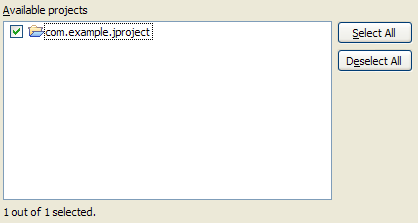
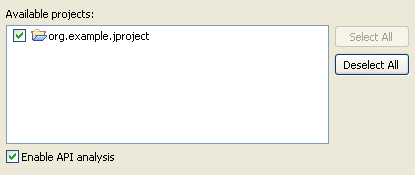
Bug 381665 - The Wizard mentioned for Java Project to PDE migration is not visible

Changed region(s): [[0.0, 0.0286, 1.0, 0.9714]]

diff --git a/bundles/org.eclipse.pde.doc.user/guide/tools/pde_actions/convert_projects.htm b/bundles/org.eclipse.pde.doc.user/guide/tools/pde_actions/convert_projects.htm
@@ -2,7 +2,7 @@
 "http://www.w3.org/TR/html4/loose.dtd">
 <html lang="en">
 <head>
-<meta name="copyright" content="Copyright (c) IBM Corporation and others 2007, 2009. This page is made available under license. For full details see the LEGAL in the documentation book that contains this page." >
+<meta name="copyright" content="Copyright (c) IBM Corporation and others 2007, 2012. This page is made available under license. For full details see the LEGAL in the documentation book that contains this page." >
 <meta http-equiv="Content-Type" content="text/html; charset=iso-8859-1">
 <script language="JavaScript" type="text/javascript" src="PLUGINS_ROOT/org.eclipse.help/livehelp.js"></script>
 <title>Converting Java Projects to Plug-in Projects</title>
@@ -13,13 +13,14 @@
 <h1>Converting Java Projects to Plug-in Projects</h1>
 
 <p>PDE provides a <strong>Converting Java Projects to Plug-in Projects</strong>
- wizard to quickly and easily utilize PDE capabilities from a Java Project. 
- The wizard is available under the <strong>PDE Tools</strong> menu in the
- context menu of any Java Project.
-</p>
+ wizard to quickly and easily utilize PDE capabilities from a Java Project.  To
+ open this wizard right-click on a Java project, open the <strong>Configure</strong>
+ menu and select <strong>Convert to Plug-in Projects...</strong>.
+ </p>
 <p>During the conversion process, PDE will add its nature and builders to the project,
  add the Plug-in Dependencies classpath container.  Finally, PDE will create a MANIFEST.MF and 
- build.properties for the project if they do not already exist.
+ build.properties for the project if they do not already exist.  If <strong>Enable API analysis</strong>
+ is selected, the API Tools project nature will be added to the project.
 </p>
 
 <p><img src="../../images/pde_actions/convert_project.png" alt="Project Selection" ></p>

diff --git a/bundles/org.eclipse.pde.doc.user/guide/tools/pde_actions/task_wizards.htm b/bundles/org.eclipse.pde.doc.user/guide/tools/pde_actions/task_wizards.htm
@@ -2,7 +2,7 @@
 "http://www.w3.org/TR/html4/loose.dtd">
 <html lang="en">
 <head>
-<meta name="copyright" content="Copyright (c) IBM Corporation and others 2007, 2009. This page is made available under license. For full details see the LEGAL in the documentation book that contains this page." >
+<meta name="copyright" content="Copyright (c) IBM Corporation and others 2007, 2012. This page is made available under license. For full details see the LEGAL in the documentation book that contains this page." >
 <meta http-equiv="Content-Type" content="text/html; charset=iso-8859-1">
 <script language="JavaScript" type="text/javascript" src="PLUGINS_ROOT/org.eclipse.help/livehelp.js"></script>
 <title>Task Wizards</title>
@@ -14,10 +14,11 @@
 
 <p>PDE provides wizards that will help save you time configuring your workspace
  and developing plug-ins.  The PDE task wizards are available by selecting the
- <strong>PDE Tools</strong> submenu in the context menu.
+ <strong>Plug-in Tools</strong> menu after right clicking on a plug-in project, 
+ a MANIFEST.MF file or plugin.xml file.
 </p>
 
-<p><img src="../../images/pde_actions/actions_select.png" alt="Task Wizards" ></p>
+<p><img src="../../images/pde_actions/plugin_tools_menu.png" alt="Plug-in Tools Menu" ></p>
 
 <p>For details on individual task wizards, please refer to the following documents:</p>
 <ul>

diff --git a/bundles/org.eclipse.pde.doc.user/guide/tools/pde_actions/organize_manifests.htm b/bundles/org.eclipse.pde.doc.user/guide/tools/pde_actions/organize_manifests.htm
@@ -2,7 +2,7 @@
 "http://www.w3.org/TR/html4/loose.dtd">
 <html lang="en">
 <head>
-<meta name="copyright" content="Copyright (c) IBM Corporation and others 2006, 2009. This page is made available under license. For full details see the LEGAL in the documentation book that contains this page." >
+<meta name="copyright" content="Copyright (c) IBM Corporation and others 2006, 2012. This page is made available under license. For full details see the LEGAL in the documentation book that contains this page." >
 <meta http-equiv="Content-Type" content="text/html; charset=iso-8859-1">
 <script language="JavaScript" type="text/javascript" src="PLUGINS_ROOT/org.eclipse.help/livehelp.js"></script>
 <title>Organizing Manifest Files</title>
@@ -14,8 +14,8 @@
 
 <p>PDE provides an <strong>Organize Manifests</strong> wizard to help ensure that
  the information in your Manifest is up to date. 
- The wizard is available through the <strong>PDE Tools</strong> menu in the
- context menu of a PDE project's MANIFEST.MF or plugin.xml files.
+ The wizard is available through the <strong>Plug-in Tools</strong> menu after right clicking
+ on a plug-in project's MANIFEST.MF or plugin.xml files.
 </p>
 
 <p><img src="../../images/pde_actions/organize_manifest.png" alt="Organize Manifest" >

diff --git a/bundles/org.eclipse.pde.doc.user/guide/tools/pde_actions/externalize_strings.htm b/bundles/org.eclipse.pde.doc.user/guide/tools/pde_actions/externalize_strings.htm
@@ -2,7 +2,7 @@
 "http://www.w3.org/TR/html4/loose.dtd">
 <html lang="en">
 <head>
-<meta name="copyright" content="Copyright (c) IBM Corporation and others 2007, 2009. This page is made available under license. For full details see the LEGAL in the documentation book that contains this page." >
+<meta name="copyright" content="Copyright (c) IBM Corporation and others 2007, 2012. This page is made available under license. For full details see the LEGAL in the documentation book that contains this page." >
 <meta http-equiv="Content-Type" content="text/html; charset=iso-8859-1">
 <script language="JavaScript" type="text/javascript" src="PLUGINS_ROOT/org.eclipse.help/livehelp.js"></script>
 <title>Externalizing Strings</title>
@@ -16,8 +16,8 @@
  externalize strings in your Manifest and plugin.xml files. 
  Externalizing manifest files extracts translatable strings and stores 
  them in a properties file for multi-language support.
- The wizard is available under the <strong>PDE Tools</strong> menu in
- the context menu of a PDE project's MANIFEST.MF or plugin.xml files.
+ The wizard is available through the <strong>Plug-in Tools</strong> menu after right clicking
+ on a plug-in project's MANIFEST.MF or plugin.xml files.
 </p>
 
 <h3>File Selections</h3>

diff --git a/bundles/org.eclipse.pde.doc.user/guide/tools/pde_actions/update_classpaths.htm b/bundles/org.eclipse.pde.doc.user/guide/tools/pde_actions/update_classpaths.htm
@@ -2,7 +2,7 @@
 "http://www.w3.org/TR/html4/loose.dtd">
 <html lang="en">
 <head>
-<meta name="copyright" content="Copyright (c) IBM Corporation and others 2007, 2009. This page is made available under license. For full details see the LEGAL in the documentation book that contains this page." >
+<meta name="copyright" content="Copyright (c) IBM Corporation and others 2007, 2012. This page is made available under license. For full details see the LEGAL in the documentation book that contains this page." >
 <meta http-equiv="Content-Type" content="text/html; charset=iso-8859-1">
 <script language="JavaScript" type="text/javascript" src="PLUGINS_ROOT/org.eclipse.help/livehelp.js"></script>
 <title>Updating Classpaths</title>
@@ -16,7 +16,7 @@
  updates the classpaths of multiple projects.  The update will change the
  JRE and compiler settings to best match the first execution environment
  specified in each project's Manifest. 
- The wizard is available under the PDE Tools menu in the context menu of a
+ The wizard is available under the <strong>Plug-in Tools</strong> menu after right clicking on a
  Plug-in Project.
 </p>
 
